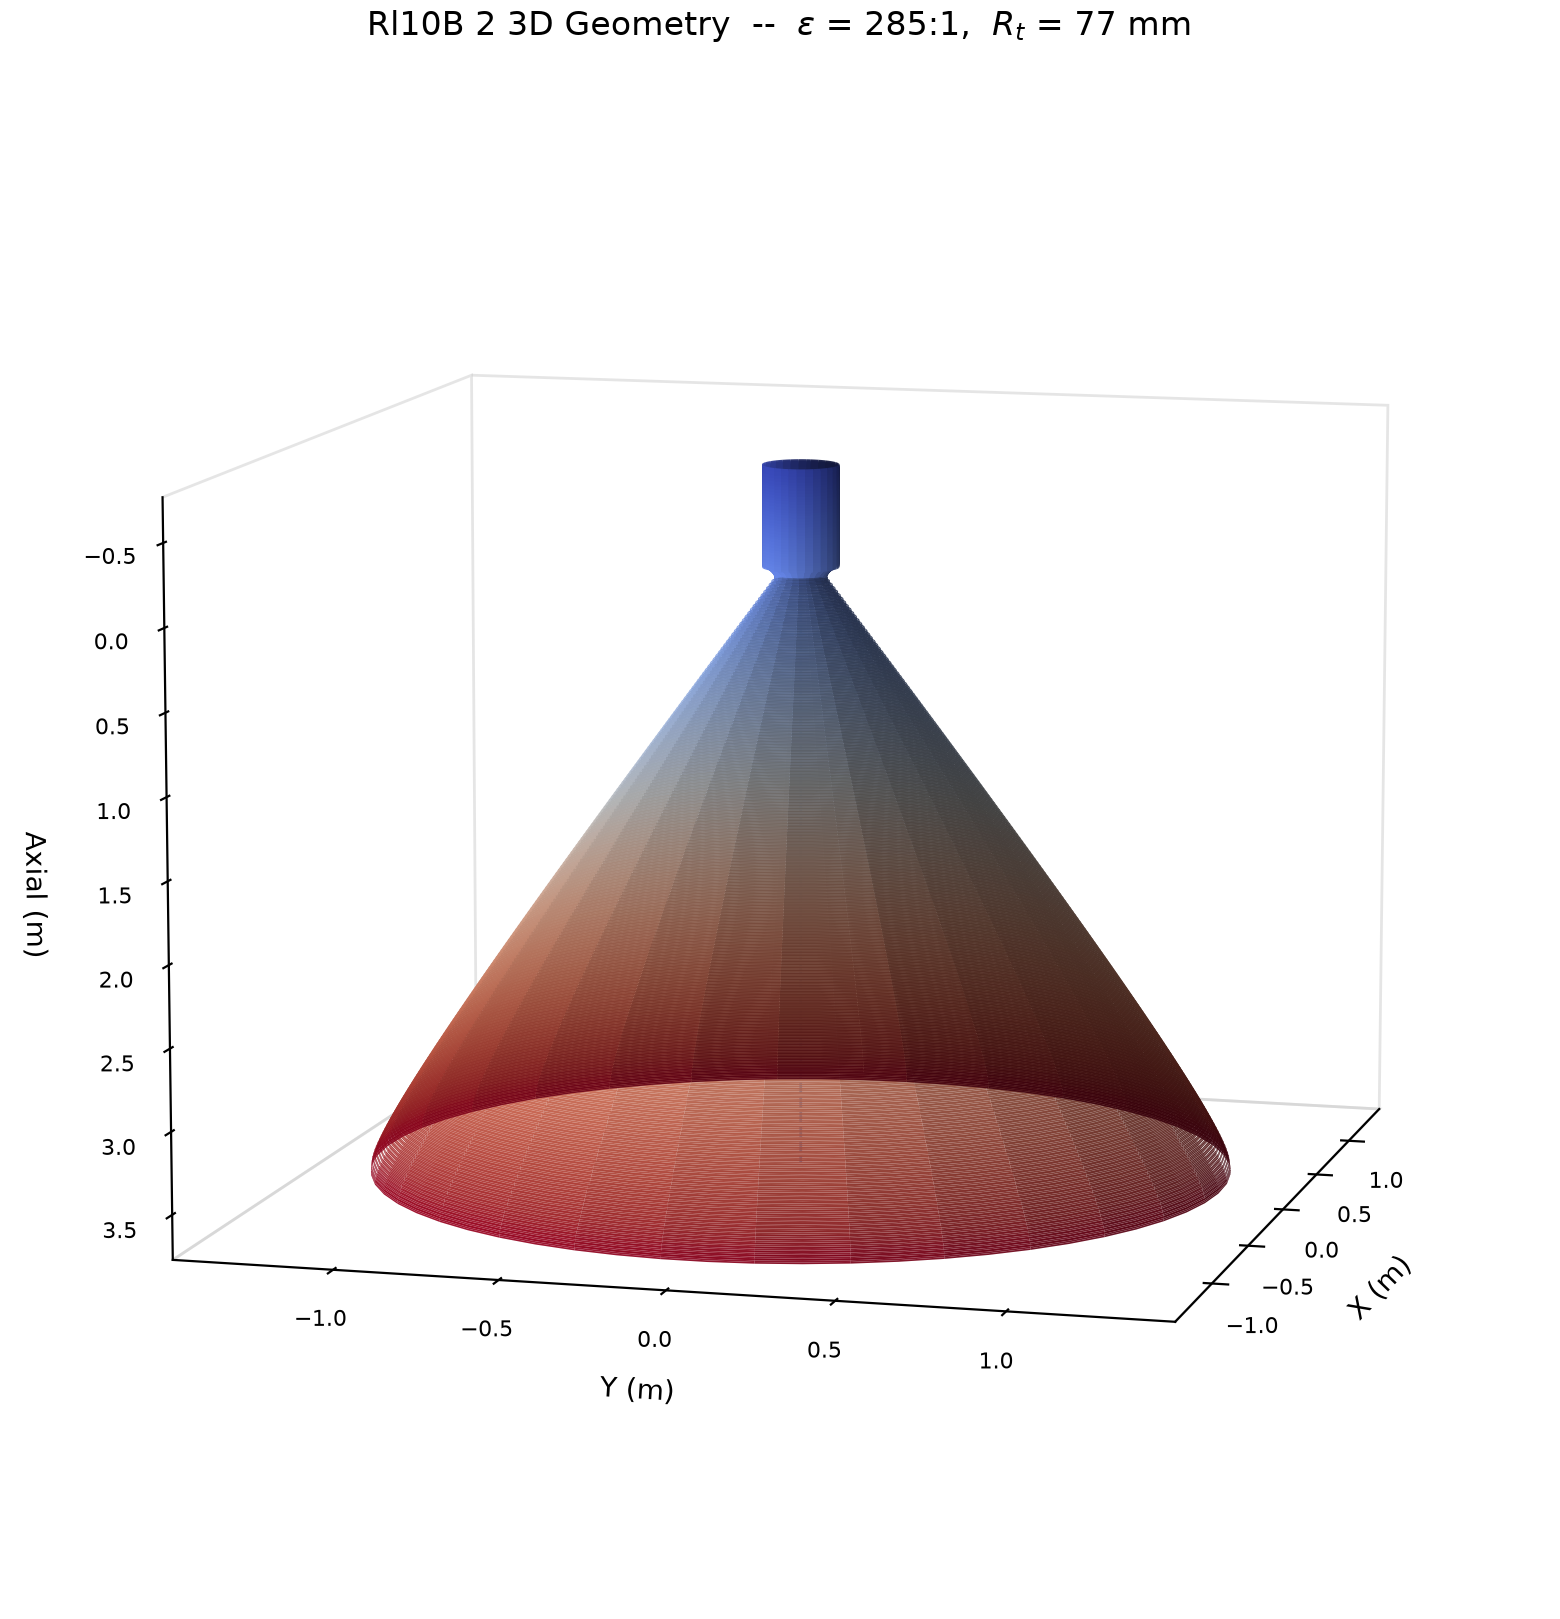
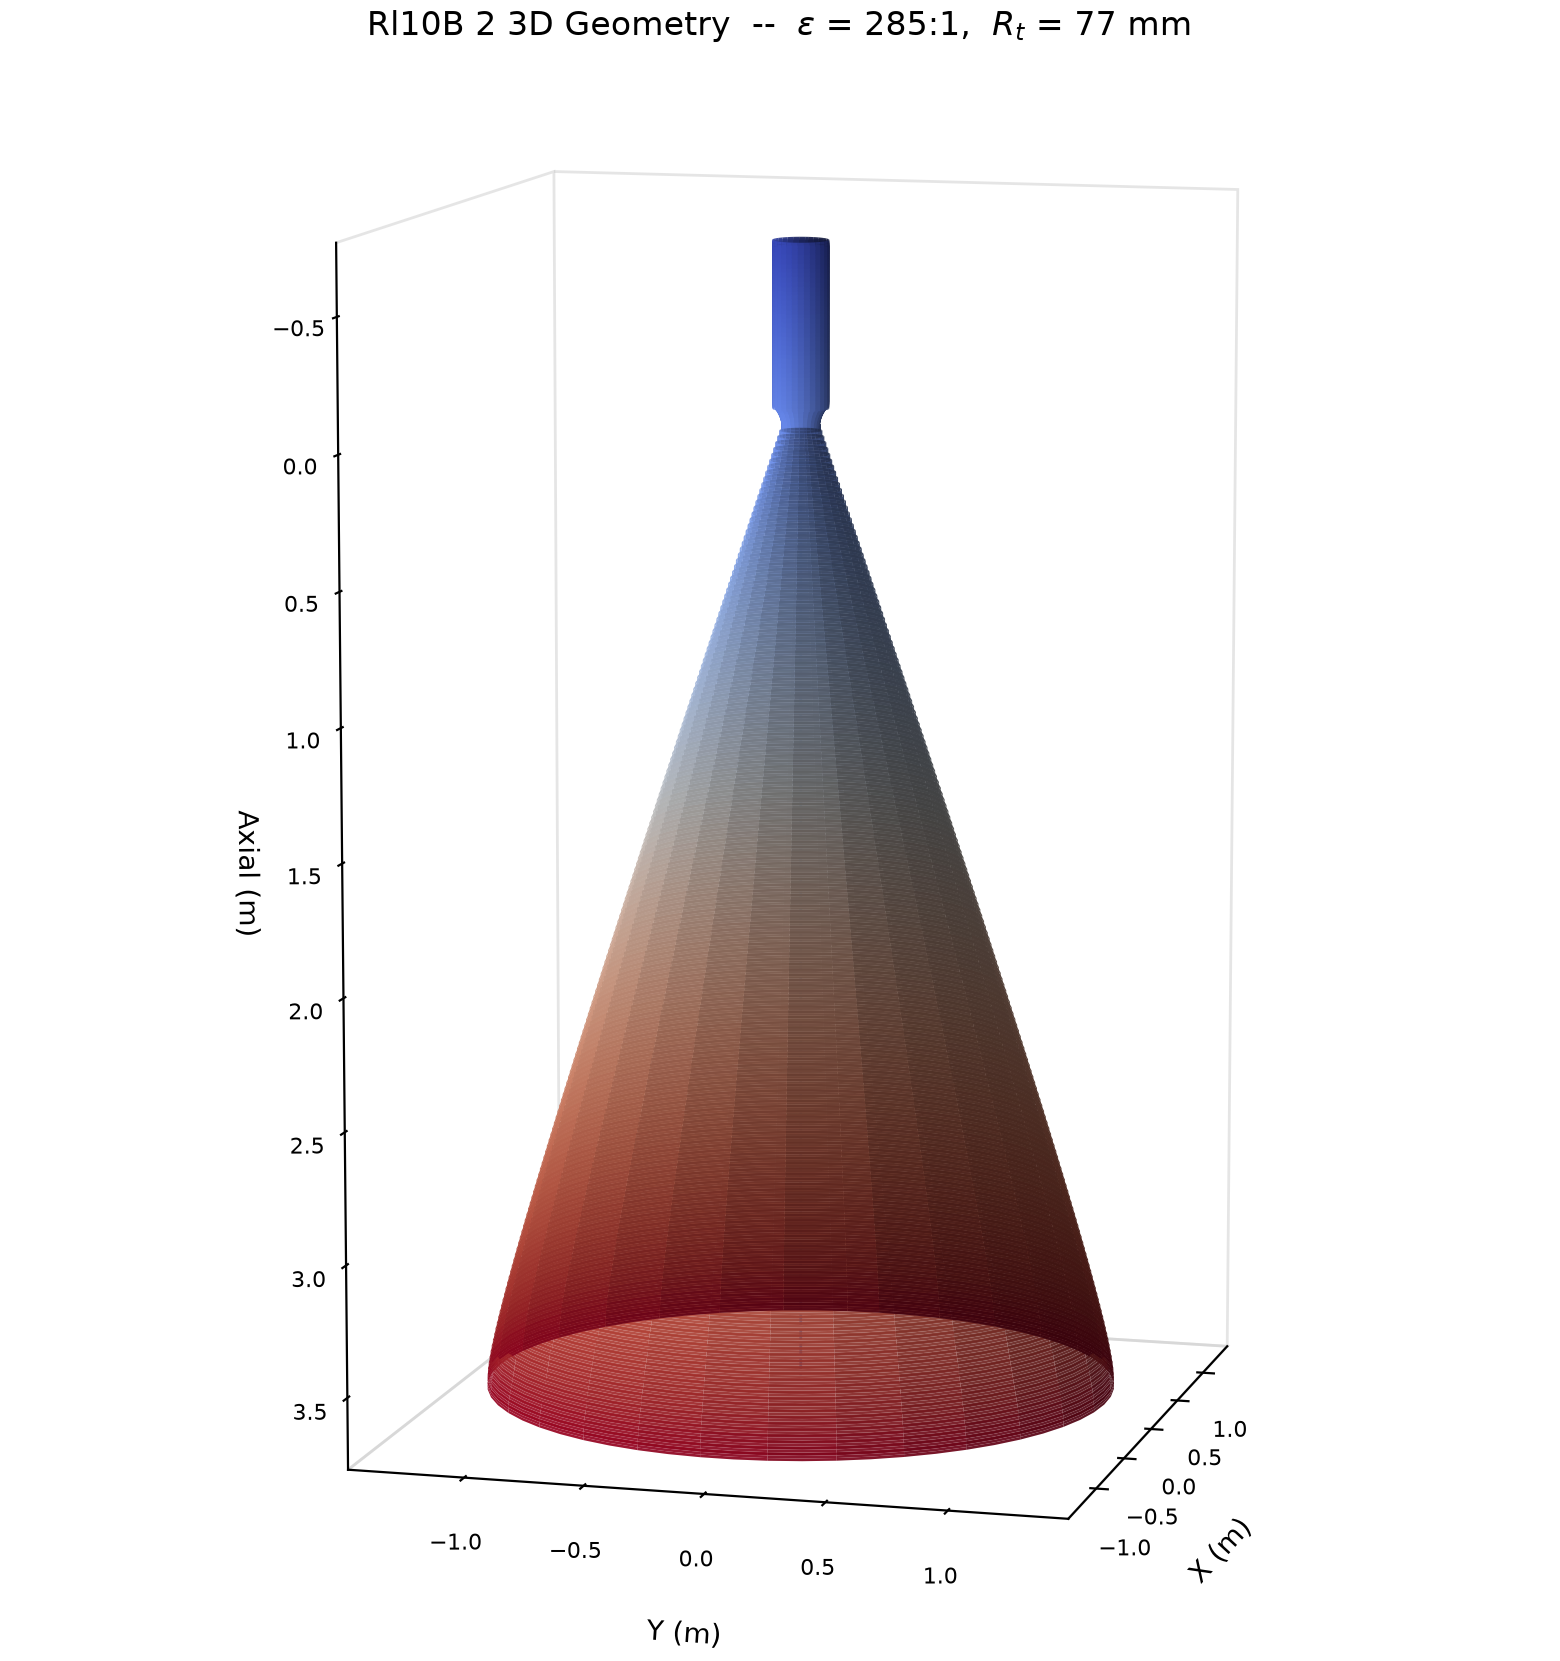
fix: set proper aspect ratio for 3D geometry plots
- Use actual Z/XY ratio (1.6-1.7x) instead of equal or auto-scale
- Nozzles now show correct proportions: ~1.6x longer than diameter

diff --git a/src/viz/nozzle_3d.py b/src/viz/nozzle_3d.py
@@ -93,7 +93,12 @@ def plot_nozzle_3d(
         color="#1565C0", linewidth=1.0, alpha=0.6, linestyle="--",
     )
 
-    # 7. Remove axis panes for cleaner look
+    # 7. Set aspect ratio matching actual nozzle proportions
+    z_range = float(x.max() - x.min())
+    xy_diameter = float(y.max()) * 2
+    ax.set_box_aspect([1.0, 1.0, z_range / xy_diameter])
+
+    # Clean axis panes
     ax.xaxis.pane.fill = False
     ax.yaxis.pane.fill = False
     ax.zaxis.pane.fill = False
